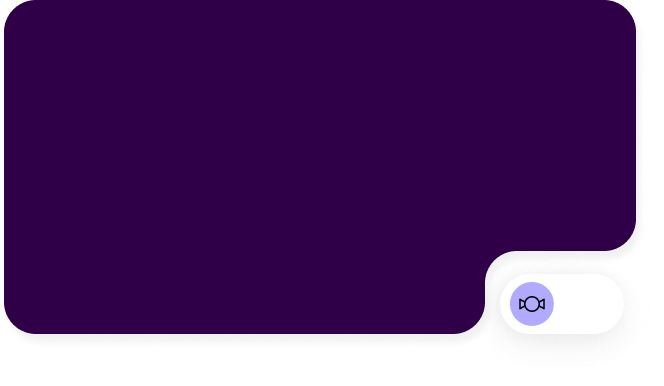
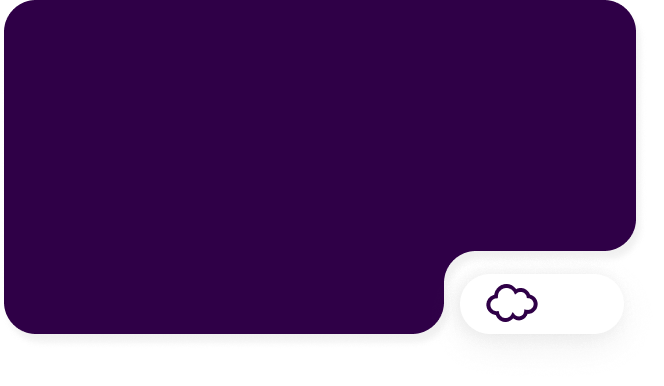
design: 미션 정보 아이콘 수정

Changed region(s): [[0.6325, 0.6528, 0.8434, 0.8705]]

diff --git a/src/features/Mission/components/TodayMission.jsx b/src/features/Mission/components/TodayMission.jsx
@@ -124,8 +124,8 @@ const CandyOverlay = styled.div`
   width: 88px;
   height: 30px;
   position: absolute;
-  top: 75%;
-  left: 78%;
-  font-size: 10px;
-  font-weight: 400;
+  top: 74%;
+  left: 76%;
+  font-size: 12px;
+  font-weight: 500;
 `;